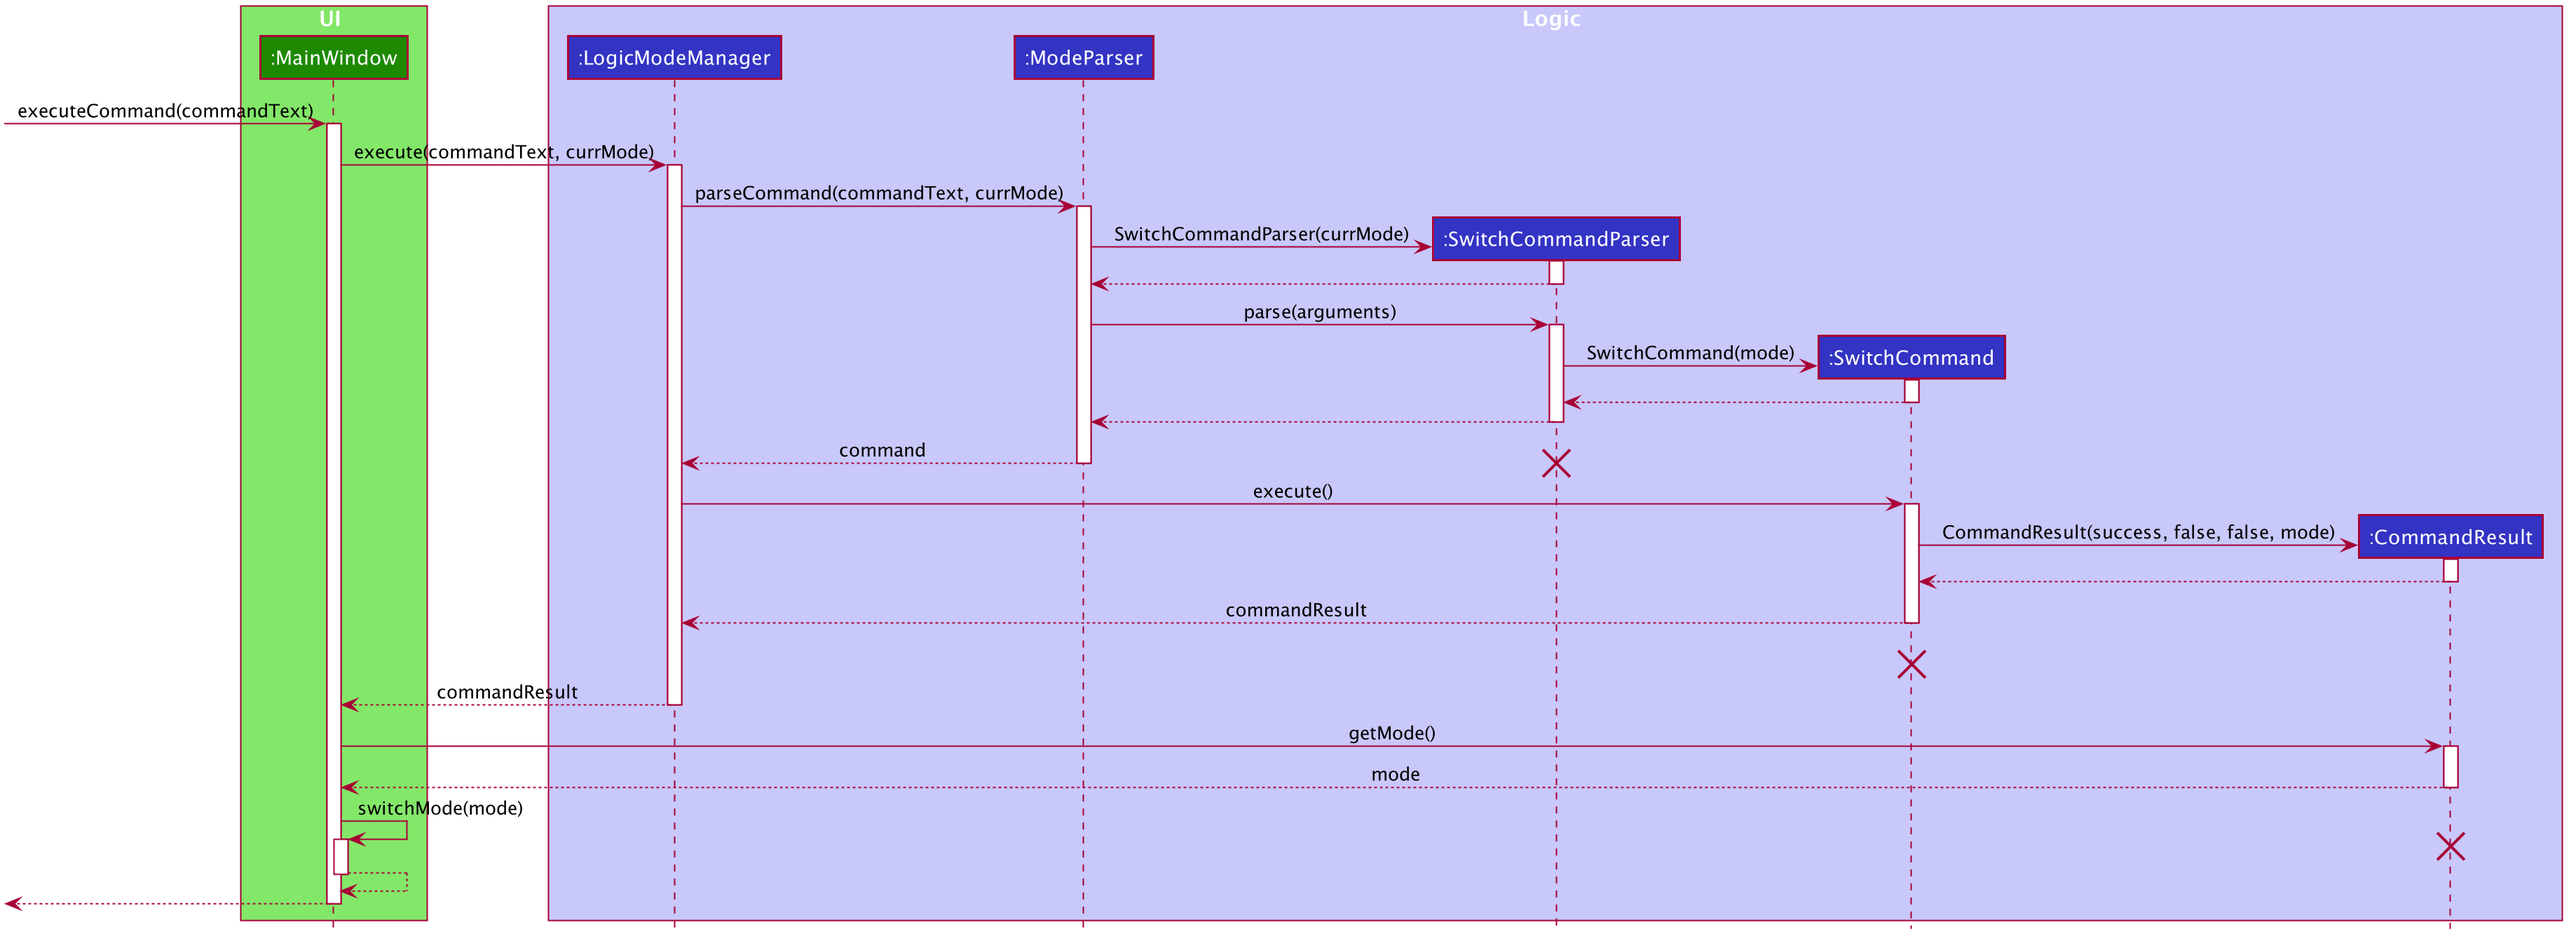
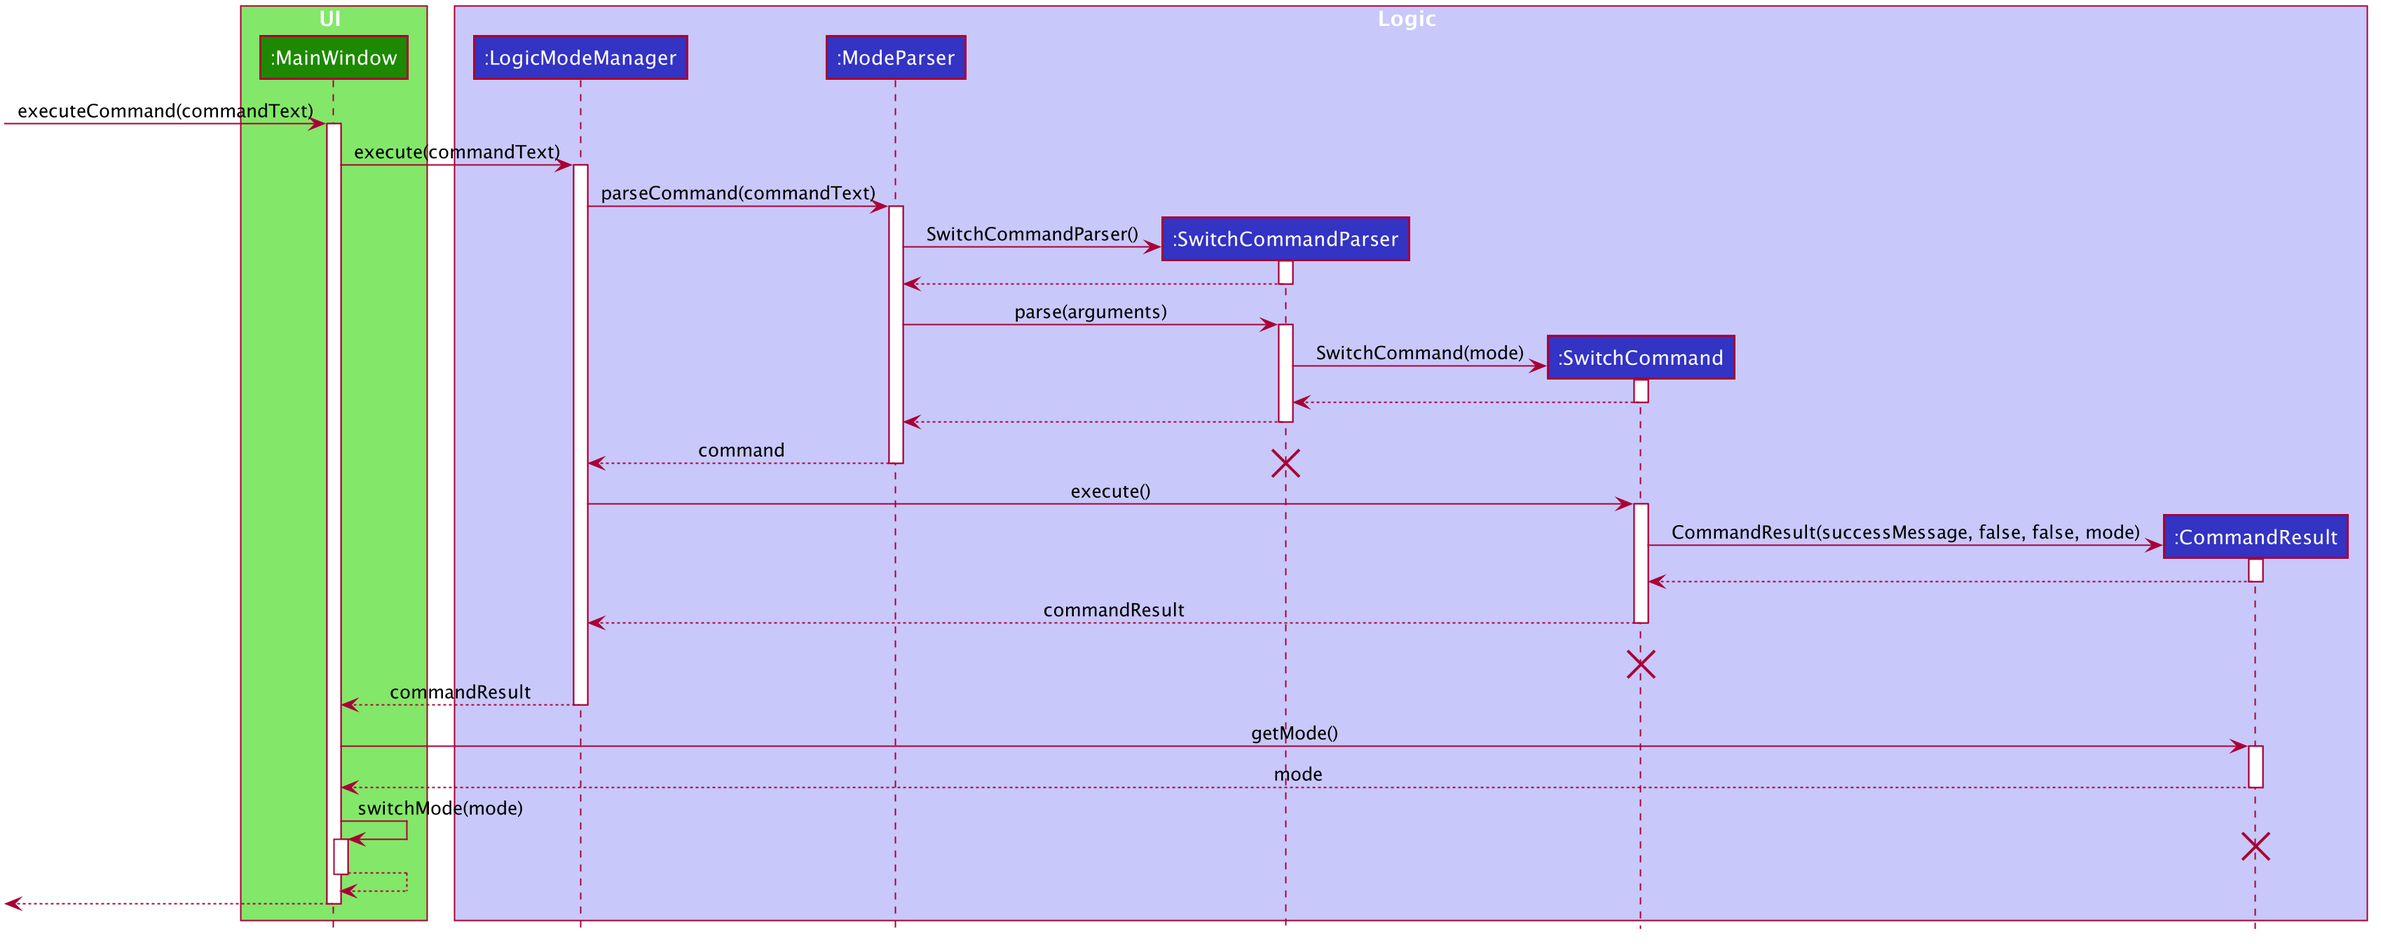
Update documentation of Switch mode feature

diff --git a/docs/DeveloperGuide.md b/docs/DeveloperGuide.md
@@ -197,18 +197,25 @@ The following sequence diagram shows how a list is autosorted upon an addition o
 
 ### Switch Mode feature
 
-Productiv can be one of these modes: dashboard, deliverable, meeting and contact mode.
+Productiv can be in any one of these modes: dashboard, deliverable, meeting and contact mode.
 Based on the current mode, user input is passed to the corresponding `LogicManager`,
 e.g. if the user is in deliverable mode, user input is passed to `LogicDeliverableManager`.
 
 #### Implementation
 
 The user input is handled and retrieved by the `MainWindow` and then passed to `LogicModeManager`.
-`LogicModeManager` will call `ModeParser`, which will parse the input and create a `SwitchCommandParser`. `SwitchCommandParser` will return a `SwitchCommand`.
-`LogicModeManager` will then execute `SwitchCommand` which returns a `CommandResult` containing the mode that the app should switch to. 
-Then, `MainWindow` gets the new mode to switch to from `CommandResult`.
+`LogicModeManager` will call `ModeParser`, which will create a `SwitchCommandParser`.
+`ModeParser` calls on `SwitchCommandParser` to parse the arguments in the user input.
+`SwitchCommandParser` will parse the arguments and return a `SwitchCommand`.
+This `SwitchCommand` is passed back `LogicModeManager`.
+`LogicModeManager` will then call the execute method of `SwitchCommand` which returns a `CommandResult` containing the mode that the app should switch to.
+This `CommandResult` is passed back `MainWindow`.
+Then, `MainWindow` will then call the `getMode()` method of `CommandResult` to gets the new mode to switch to.
 Based on the mode, `MainWindow` will update its own attribute `mode`.
-`MainWindow` will then update the UI to only show information related to the new mode.
+`MainWindow` will then update the UI via `switchMode(mode)` to only show information related to the new mode.
+
+For the command, a `SwitchCommandParser` is implemented to parse the input into a mode.
+Invalid arguments (any argument other than `dv`, `db`, `m` and `c`) are also handled properly, with suitable error messages being displayed to the user.
 
 Given below is a sequence diagram to show how the switch mode mechanism behaves.
 
